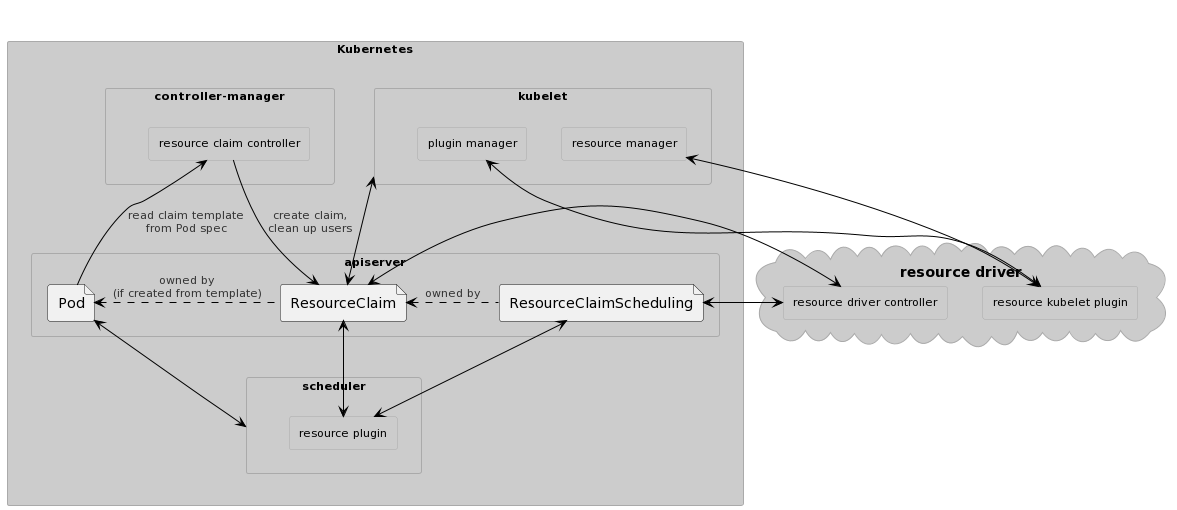
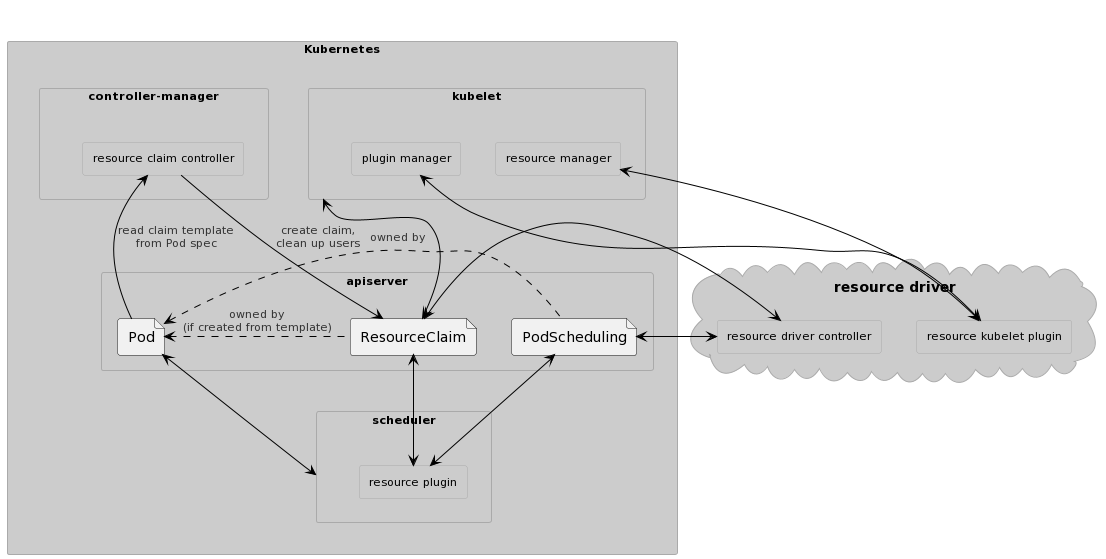
dynamic resource allocation: introduce PodScheduling object
This replaces the individual ResourceClaimScheduling objects.  The advantage is
that the PotentialNodes list only needs to be set once. The scheduler logic is
still the same (try allocation immediately, retry based on new information
later).

The new object also has the advantage that it provides a patch towards more
cooperative scheduling with different drivers reacting to the information
published by others, should that become necessary or desirable.

diff --git a/keps/sig-node/3063-dynamic-resource-allocation/README.md b/keps/sig-node/3063-dynamic-resource-allocation/README.md
@@ -660,8 +660,11 @@ A [recent KEP](https://github.com/kubernetes/enhancements/tree/master/keps/sig-a
 clarified that status will always be stored reliably and can be used as
 proposed in this KEP.
 
-The different components communicate with each other by updating fields in the
-status. This has two advantages:
+All relevant state of a ResourceClaim is captured inside that object
+itself. For additional information that is needed only during pod scheduling, a
+separate PodScheduling object gets created by the scheduler if needed.
+
+This has two advantages:
 - Changes for a resource are atomic, which avoids race conditions.
 - The only requirement for deployments is that the components can connect to
   the API server. Direct communication is not needed, but in some cases
@@ -866,6 +869,40 @@ while <pod needs to be scheduled> {
 }
 ```
 
+Randomly picking a node without knowing anything about the resource driver may
+or may not succeed. To narrow the choice of suitable nodes for all claims using
+a certain resource class, a node selector can be specified in that class. That
+selector is static and typically will use labels that determine which nodes may
+have resources available.
+
+To gather information about the current state of resource availability, the
+scheduler creates a PodScheduling object. That object is owned by the pod and
+will either get deleted by the scheduler when it is done with pod scheduling or
+through the garbage collector. In the PodScheduling object, the scheduler posts
+the list of all potential nodes that it was left with after considering all
+other pod constraints and requirements. Resource drivers involved in the
+scheduling of the pod respond by adding which of these nodes currently don't
+have sufficient resources available. The next scheduling attempt is then more
+likely to pick a node for which allocation succeeds.
+
+This scheduling information is optional and does not have to be in sync with
+the current ResourceClaim state, therefore it is okay to store it
+separately. Alternatively, the scheduler may be configured to do node filtering
+through scheduler extenders, in which case the PodScheduling object will not be
+needed.
+
+Allowing the scheduler to trigger allocation in parallel to asking for more
+information was chosen because for pods with a single resource claim, the cost
+of guessing wrong is low: the driver just needs to inform the scheduler to try
+again and provide the additional information.
+
+Additional heuristics are possible without changing the proposed API. For
+example, the scheduler might ask for information and wait a while before
+making a choice. This may be more suitable for pods using many different
+resource claims because for those, allocation may succeed for some claims and
+fail for others, which then may need to go through the recovery flow with
+deallocating one or more claims.
+
 ### Resource allocation and usage flow
 
 The following steps shows how resource allocation works for a resource that
@@ -883,16 +920,17 @@ else changes in the system, like for example deleting objects.
   * **scheduler** filters nodes
   * if *delayed allocation and resource not allocated yet*:
     * if *at least one node fits pod*:
-      * **scheduler** picks one node, sets `SelectedNode=<the chosen node>` and `SelectedUser=<the pod being scheduled>`
-      * **scheduler** creates or updates a `ResourceClaimScheduling` object with `PotentialNodes=<all nodes that fit the pod>`
+      * **scheduler** creates or updates a `PodScheduling` object with `PotentialNodes=<all nodes that fit the pod>`
+      * **scheduler** picks one node, sets `ResourceClaimStatus.Scheduling.SelectedNode=<the chosen node>` and `ResourceClaimStatus.Scheduling.SelectedUser=<the pod being scheduled>`
       * if *resource is available for `SelectedNode`*:
         * **resource driver** adds finalizer to claim to prevent deletion -> allocation in progress
         * **resource driver** finishes allocation, sets `Allocation` and the
           intended user in `ReservedFor`, clears `SelectedNode` and `SelectedUser` -> claim ready for use and reserved
           for the pod
-        * **resource driver** deletes `ResourceClaimScheduling` object if there is one
       * else *scheduler needs to know that it must avoid this and possibly other nodes*:
-        * **resource driver** sets `ResourceClaimScheduling.UnsuitableNodes` -> next attempt by scheduler has more information and is more likely to succeed
+        * **resource driver** retrieves `PodScheduling` object from informer cache or API server
+        * **resource driver** sets `UnsuitableNodes` in `PodScheduling.Claims` for the claim
+        * **resource driver** clears `SelectedNode` -> next attempt by scheduler has more information and is more likely to succeed
     * else *pod cannot be scheduled*:
       * **scheduler** may trigger deallocation of some claim with delayed allocation by setting `ResourceClaimStatus.Deallocate` to true
       (see [pseudo-code above](#coordinating-resource-allocation-through-the-scheduler)) or wait
@@ -900,6 +938,7 @@ else changes in the system, like for example deleting objects.
     * **scheduler** adds it to `ReservedFor`
   * if *resource allocated and reserved*:
     * **scheduler** sets node in Pod spec -> Pod ready to run
+    * **scheduler** deletes `PodScheduling` object if one exists
 * if *node is set for pod*:
   * if `resource not reserved for pod` (user might have set the node field):
     * **kubelet** refuses to start the pod -> permanent failure
@@ -923,6 +962,10 @@ name. The ResourceClaim does not get deleted at the end and can be reused by
 another Pod and/or used by multiple different Pods at the same time (if
 supported by the driver). The resource remains allocated as long as the
 ResourceClaim doesn't get deleted by the user.
+
+If a Pod references multiple claims managed by the same driver, then the driver
+can combine updating `UnsuitableNodes` for all of them, after considering all
+claims.
 
 ### API
 
@@ -1159,32 +1202,27 @@ type AllocationResult struct {
 	SharedResource bool
 }
 
-// ResourceClaimScheduling objects get created by a scheduler when it needs
-// information from a resource driver while scheduling a Pod that uses
-// an unallocated ResourceClaim with delayed allocation.
+// PodScheduling objects get created by a scheduler when it needs
+// information from resource driver(s) while scheduling a Pod that uses
+// one or more unallocated ResourceClaims with delayed allocation.
 //
 // Alternatively, a scheduler extender might be configured for the
-// resource driver. In that case no such object is needed.
-type ResourceClaimScheduling struct {
+// resource driver(s). If all drivers have one, this object is not
+// needed.
+type PodScheduling struct {
 	metav1.TypeMeta
 
-	// The name must be the same as the corresponding ResourceClaim.
-	// That ResourceClaim must be listed as owner in OwnerReferences
-	// to ensure that the ResourceClaimScheduling gets deleted
-	// when no longer needed. Normally the driver will delete it,
-	// but it might get removed before it has a chance to do that.
-	//
-	// The special ResourceDriverLabel must be set to the name of
-	// the resource driver that is expected to provide the
-	// information. Resource drivers can use that as filter to
-	// receive only objects that are relevant for them.
+	// The name must be the same as the corresponding Pod.
+	// That Pod must be listed as owner in OwnerReferences
+	// to ensure that the PodScheduling object gets deleted
+	// when no longer needed. Normally the scheduler will delete it.
 	//
 	// More info: https://git.k8s.io/community/contributors/devel/sig-architecture/api-conventions.md#metadata
 	metav1.ObjectMeta
 
 	// When allocation is delayed, and the scheduler needs to
 	// decide on which node a Pod should run, it will
-	// ask the driver on which nodes the resource might be
+	// ask the driver(s) on which nodes the resource might be
 	// made available. To trigger that check, the scheduler
 	// provides the names of nodes which might be suitable
 	// for the Pod. Will be updated periodically until
@@ -1196,7 +1234,24 @@ type ResourceClaimScheduling struct {
 	// reject through UnsuitableNodes.
 	PotentialNodes []string
 
-	// A change of the PotentialNodes field triggers a check in the driver
+	// Each resource driver is responsible for providing information about
+	// those claims in the Pod that the driver manages. It can skip
+	// adding that information when it already allocated the claim.
+	//
+	// +listType=map
+	// +listMapKey=podResourceClaimName
+	// +optional
+	Claims []ResourceClaimScheduling
+}
+
+// ResourceClaimScheduling contains information about one
+// particular claim in a pod while scheduling that pod.
+type ResourceClaimScheduling struct {
+	// PodResourceClaimName matches the PodResourceClaim.Name field.
+	PodResourceClaimName string
+
+	// A change of the PotentialNodes field in the PodScheduling object
+	// triggers a check in the driver
 	// on which of those nodes the resource might be made available. It
 	// then excludes nodes by listing those where that is not the case in
 	// UnsuitableNodes.
@@ -1211,13 +1266,6 @@ type ResourceClaimScheduling struct {
 	// other ResourceClaim until a node gets selected by the scheduler.
 	UnsuitableNodes []string
 }
-
-const (
-	// ResourceDriverLabel is set to the name of a resource driver. It is
-	// used for ResourceClaimScheduling objects to enable server-side
-	// filtering of objects that need to be handled by a certain driver.
-	ResourceDriverLabel = "resource-driver.k8s.io"
-)
 
 type PodSpec {
    ...
@@ -1369,8 +1417,8 @@ type Extender struct {
        // and Bind (if the extender is the binder) phases iff the pod requests at least
        // one ResourceClaim for which the resource driver name in the corresponding
        // ResourceClass is listed here. In addition, the builtin dynamic resources
-       // plugin will skip creation and updating of the ResourceClaimScheduling object
-       // for claims managed by the extender if the extender has a FilterVerb.
+       // plugin will skip creation and updating of the PodScheduling object
+       // if all claims in the pod have an extender with the FilterVerb.
        ManagedResourceDrivers []string
 ```
 
@@ -1393,15 +1441,15 @@ This checks whether the given node has access to those ResourceClaims which
 were already allocated.
 
 For unallocated ResourceClaims with delayed allocation, only those nodes are
-filtered out that are explicitly listed in a ResourceClaimScheduling.UnsuitableNodes
-field (if such an object already exists) or that don't match
+filtered out that are explicitly listed in their UnsuitableNodes field of their
+PodScheduling.Claims entry (if such an entry already exists) or that don't match
 the optional ResourceClass.SuitableNodes node selector.
 
 There are several
 reasons why such a deny list is more suitable than an allow list:
 - Nodes for which no information is available must pass the filter phase to be
   included in the list that will be passed to pre-score and to get copied
-  into the ResourceClaimScheduling.PotentialNodes field there.
+  into the PodScheduling.PotentialNodes field there.
 - A node can already be chosen while there is no information yet and, if
   allocation for that node actually works, the Pod can get scheduled sooner.
 - Some resource drivers might not have any unsuitable nodes, for example
@@ -1442,13 +1490,13 @@ might attempt to improve this.
 #### Pre-score
 
 This is passed a list of nodes that have passed filtering by the resource
-plugin and the other plugins. The ResourceClaimScheduling.PotentialNodes field of unallocated
-ResourceClaims with delayed allocation gets updated now if the field doesn't
-match the current list already. If no ResourceClaimScheduling object exists yet,
+plugin and the other plugins. The PodScheduling.PotentialNodes field
+gets updated now if the field doesn't
+match the current list already. If no PodScheduling object exists yet,
 it gets created.
 
 When there is a scheduler extender configured for the claim, creating and
-updating ResourceClaimScheduling objects gets skipped because the scheduler
+updating PodScheduling objects gets skipped because the scheduler
 extender handles filtering.
 
 #### Reserve
